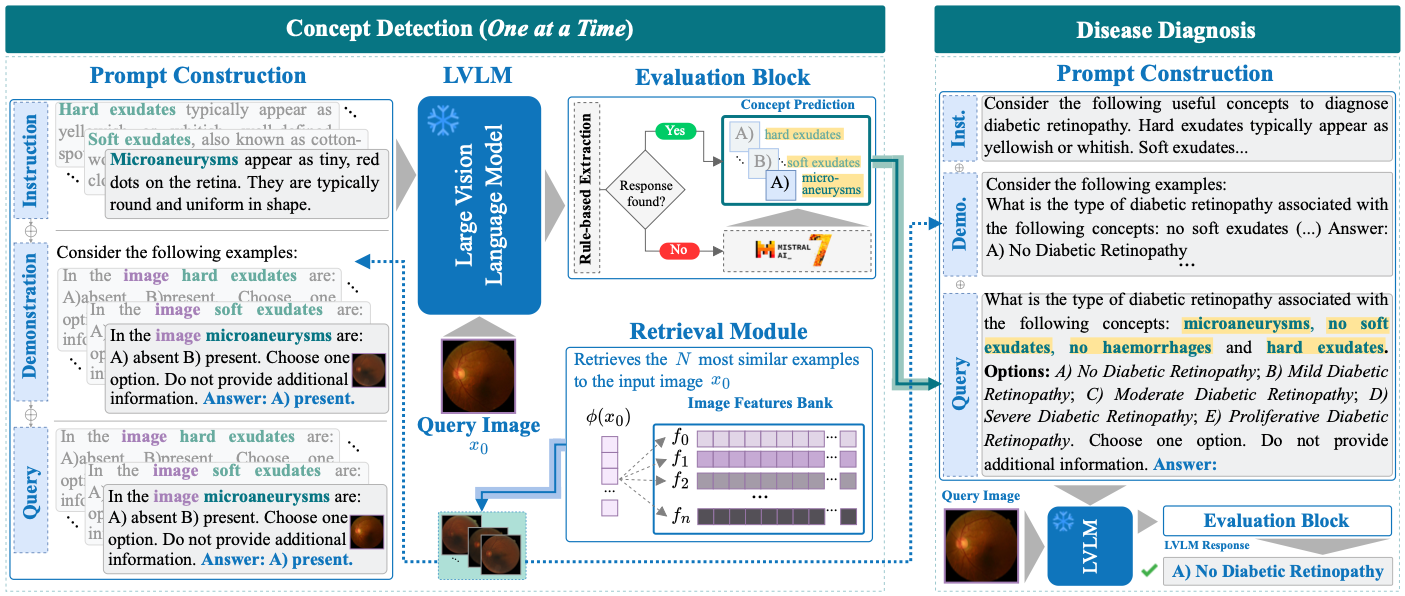
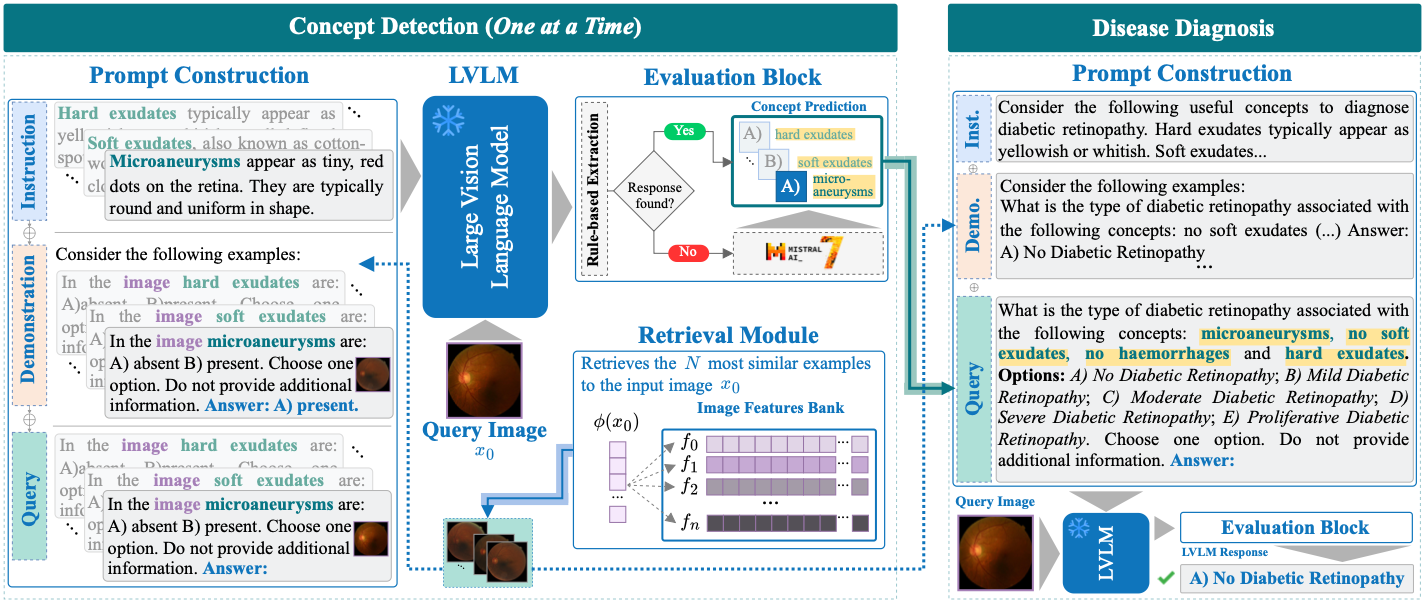
Update main figure and results

diff --git a/CBVLM/index.html b/CBVLM/index.html
@@ -79,17 +79,17 @@
   <h3>Abstract</h3>
   <hr/>
   <p>
-    The main challenges limiting the adoption of deep learning-based solutions in medical workflows are the availability 
-    of annotated data and the lack of interpretability of such systems. Concept Bottleneck Models (CBMs) tackle the latter
-     by constraining the final disease prediction on a set of predefined and human-interpretable concepts. However,
-     the increased interpretability achieved through these concept-based explanations implies a higher annotation burden. 
-     Moreover, if a new concept needs to be added, the whole system needs to be retrained. Inspired by the remarkable 
-     performance shown by Large Vision-Language Models (LVLMs) in few-shot settings, we propose a simple, yet effective, 
-     methodology, <b><em>CBVLM</em></b>, which tackles both of the aforementioned challenges. By having two stages like the original 
-     CBM we ensure explainability, and by leveraging the few-shot capabilities of LVLMs we drastically lower the annotation cost. 
-     We validate our approach with extensive experiments across four medical datasets and twelve LVLMs (both generic and medical) 
-     and show that <b><em>CBVLM</em></b> consistently outperforms CBMs and task-specific supervised methods, without requiring any training 
-     and using just a few annotated examples.
+    The main challenges limiting the adoption of deep learning-based solutions in medical workflows are the availability of annotated data and the lack of 
+    interpretability of such systems. Concept Bottleneck Models (CBMs) tackle the latter by constraining the final disease prediction on a set of predefined 
+    and human-interpretable concepts. However, the increased interpretability achieved through these concept-based explanations implies a higher annotation 
+    burden. Moreover, if a new concept needs to be added, the whole system needs to be retrained. Inspired by the remarkable performance shown by Large 
+    Vision-Language Models (LVLMs) in few-shot settings, we propose a simple, yet effective, methodology, <b><em>CBVLM</em></b>, which tackles both of the aforementioned 
+    challenges. First, for each concept, we prompt the LVLM to answer if the concept is present in the input image. Then, we ask the LVLM to classify the image 
+    based on the previous concept predictions. Moreover, in both stages, we incorporate a retrieval module responsible for selecting the best examples for 
+    in-context learning. By grounding the final diagnosis on the predicted concepts, we ensure explainability, and by leveraging the few-shot capabilities 
+    of LVLMs, we drastically lower the annotation cost. We validate our approach with extensive experiments across four medical datasets and twelve LVLMs 
+    (both generic and medical) and show that <b><em>CBVLM</em></b> consistently outperforms CBMs and task-specific supervised methods without requiring any training 
+    and using just a few annotated examples.
   </p>
 
   <h3>Methodology</h3>
@@ -102,7 +102,7 @@
   </div>
   <div class="row" style="text-align:center; padding-left:1rem; padding-right:1rem; padding-bottom:1rem;">
       <div>
-      <p><b>Overview of CBMVLM.</b> Our methodology is organized into two key stages: 
+      <p><b>Overview of CBVLM.</b> Our methodology is organized into two key stages: 
         1) The <em><u>Concept Detection</u></em> stage, where the LVLM predicts the individual presence 
         of each predefined clinical concept in the query image. This is achieved using a custom prompt that 
         supports both zero- and few-shot settings. In the latter, we include a set of demonstration examples 
@@ -113,7 +113,7 @@
         <em><u>Disease Diagnosis</u></em> stage, the final diagnosis is generated by the LVLM based on the 
         clinical concepts predicted in the first stage, which are directly incorporated in the query (highlighted in yellow). 
         This approach ensures that the diagnosis is grounded on the identified clinical concepts, enhancing the interpretability 
-        and transparency of the LVLM’s response. In this second stage the <em>Retrieval Module</em> is also used.</p>
+        and transparency of the LVLM’s response. In this second stage, the <em>Retrieval Module</em> is also used to select the <em>N</em> most similar demonstrations.</p>
       </div>
   </div>
 
@@ -123,7 +123,15 @@
     <h4><u>Influence of the example set size on the concept prediction performance of <em>CBVLM</em></u></h4>
       <img src="assets/img/CBVLM_set_size.png" alt="prototypes.jpg" class="text-center" style="width: 100%; max-width: 1000px;">
       <p>Even when only 10% of the example images per class are available <em>CBVLM</em> outperforms CBM, except for Derm7pt. Thus, <em>CBVLM</em> indeed requires few annotated examples.</p>
-  </div>
+    <br>
+    <h4><u>Concept detection results per dataset averaged over all models (left) and over generic and medical LVLMs (right).</u></h4>
+      <img src="assets/img/concept_detection_results.png" alt="prototypes.jpg" class="text-center" style="width: 100%; max-width: 1000px;">
+      <p>Each bar corresponds to the number of shots (n = {0,1,2,4}). Filled colored bars denote BACC, whereas the hatched bars indicate F1-scores.</p>
+    <br>
+    <h4><u>Disease diagnosis results per dataset averaged over all models (left) and over generic and medical LVLMs (right).</u></h4>
+      <img src="assets/img/disease_diagnosis_results.png" alt="prototypes.jpg" class="text-center" style="width: 100%; max-width: 1000px;">
+      <p>Each bar corresponds to the number of shots (n = {0,1,2,4}). "0 w/o" corresponds to the 0-shot experiment where no concepts are used for the disease diagnosis. Filled colored bars denote BACC, whereas the hatched bars indicate F1-scores.</p>
+    </div>
 
   <!--
   <h3>Resources</h3>
